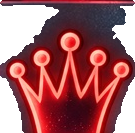
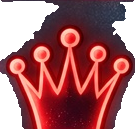
Patch 12: piece size and sprite fixes

diff --git a/src/components/ThemePiece.tsx b/src/components/ThemePiece.tsx
@@ -17,12 +17,13 @@ interface ThemePieceProps {
 
 export default function ThemePiece({ theme, piece, className, draggable }: ThemePieceProps) {
   return (
-    <img
-      src={pieceSpriteUrl(theme, piece)}
-      alt=""
-      draggable={draggable}
-      className={className}
-      style={{ width: '100%', height: '100%', objectFit: 'contain', pointerEvents: draggable ? undefined : 'none' }}
-    />
+    <div className={`w-full h-full flex items-center justify-center ${className ?? ''}`}>
+      <img
+        src={pieceSpriteUrl(theme, piece)}
+        alt=""
+        draggable={draggable}
+        style={{ width: '82%', height: '82%', objectFit: 'contain', pointerEvents: draggable ? undefined : 'none' }}
+      />
+    </div>
   );
 }
